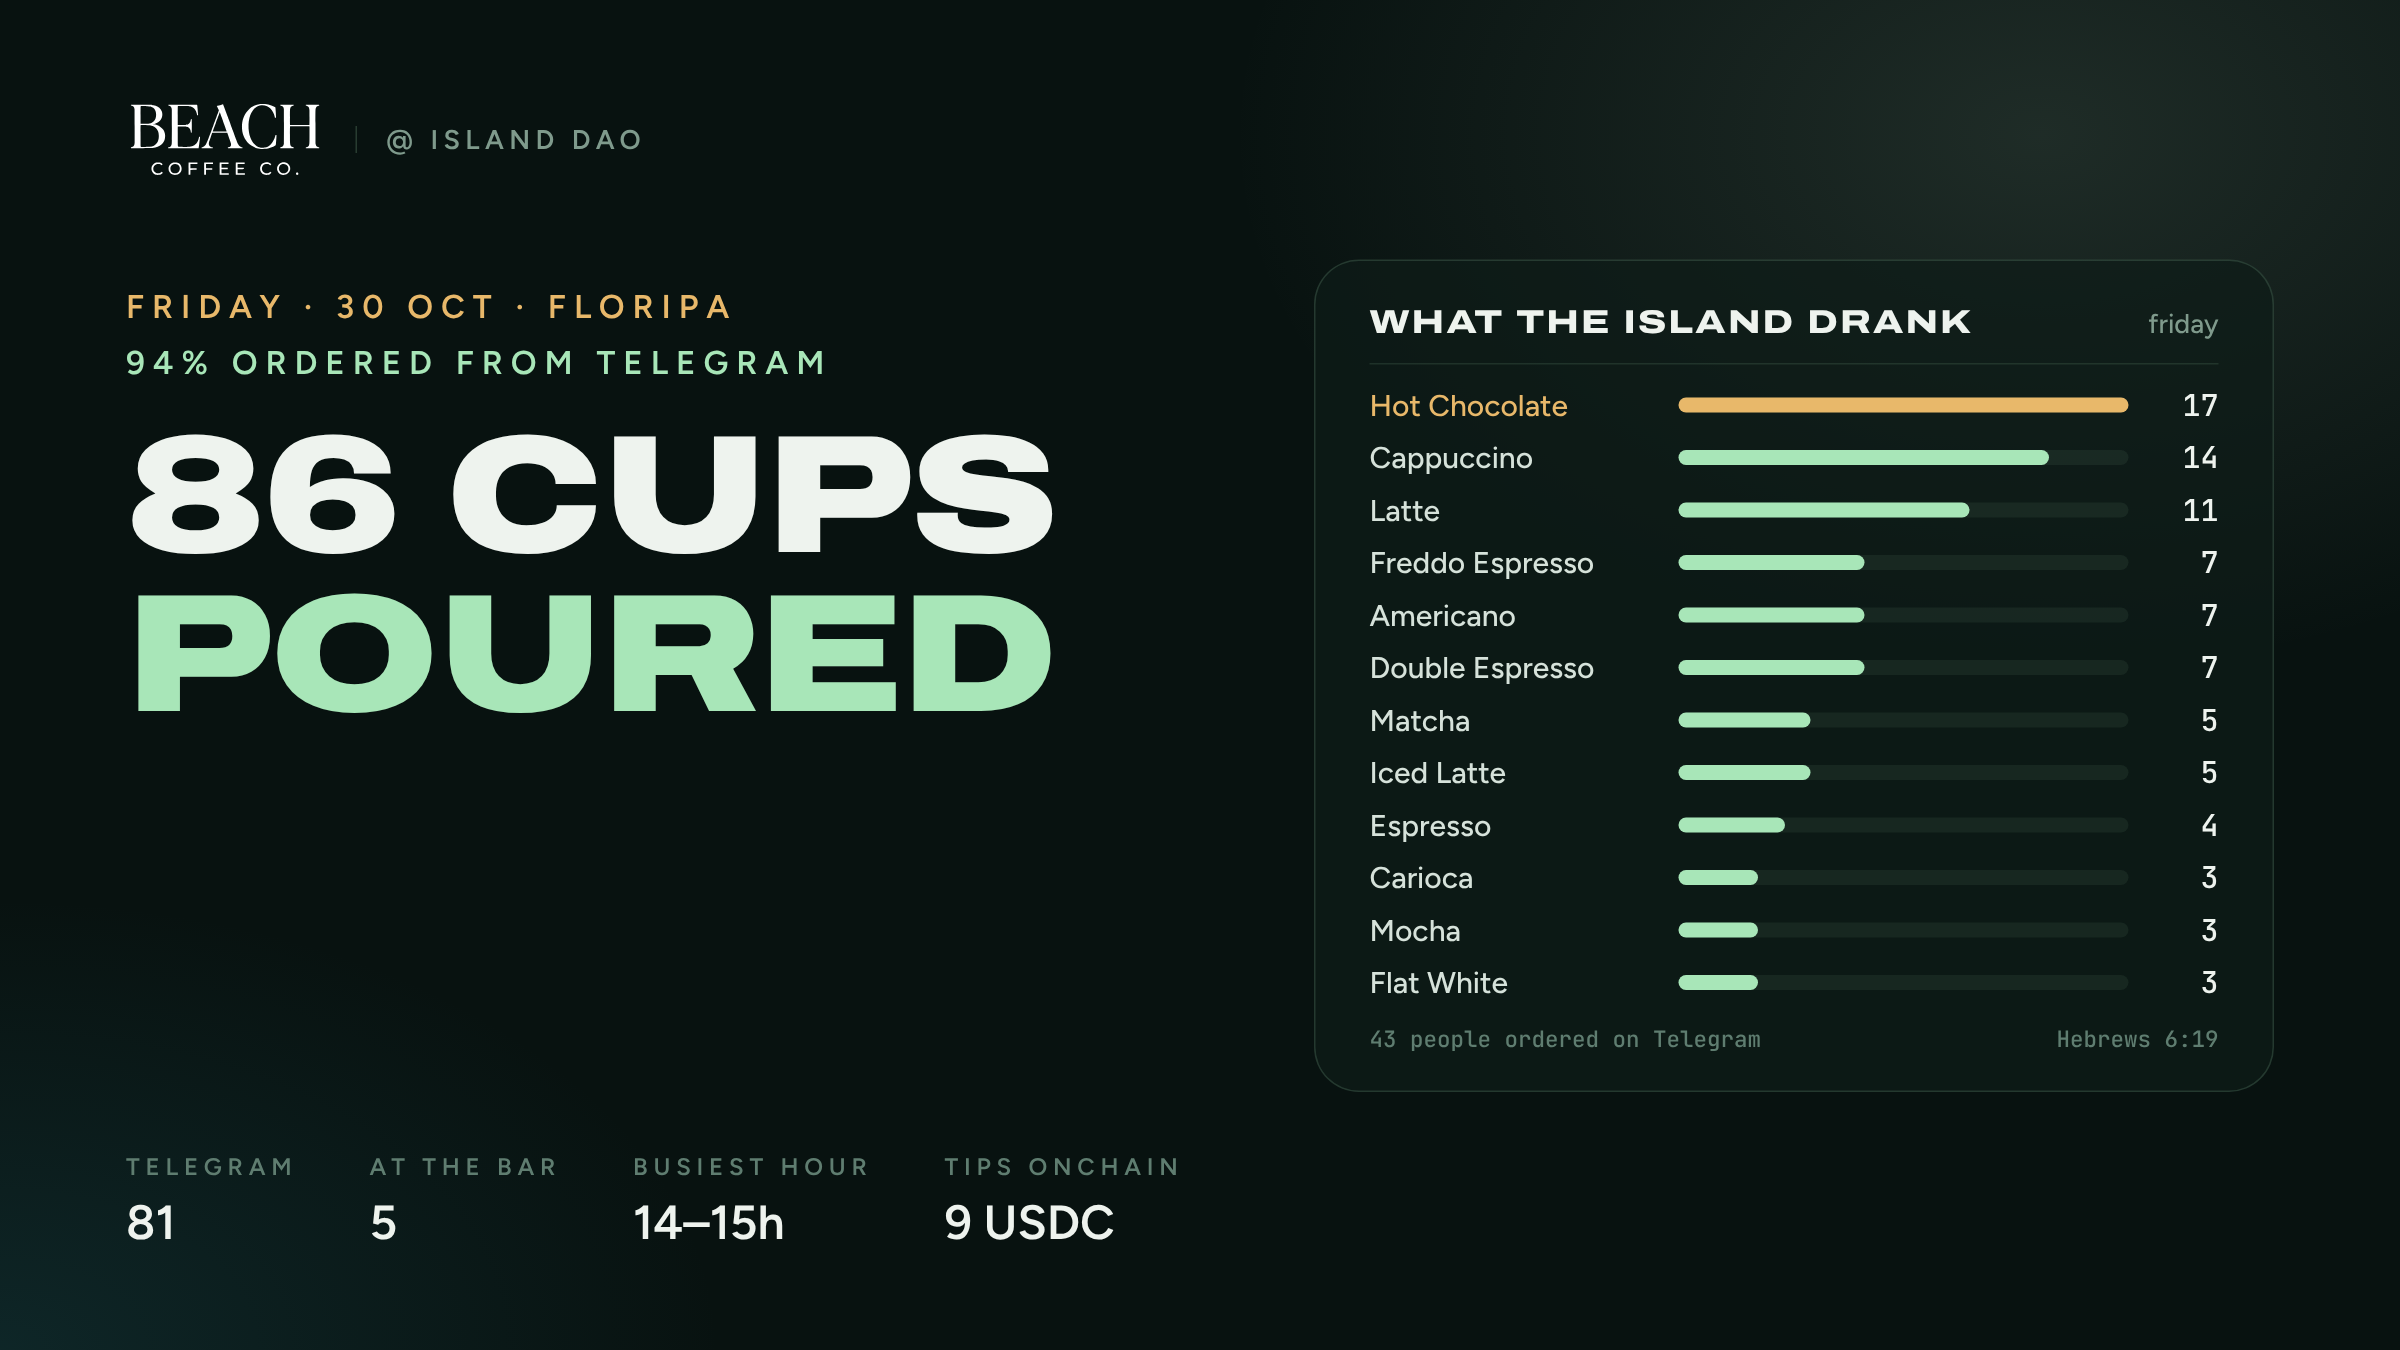
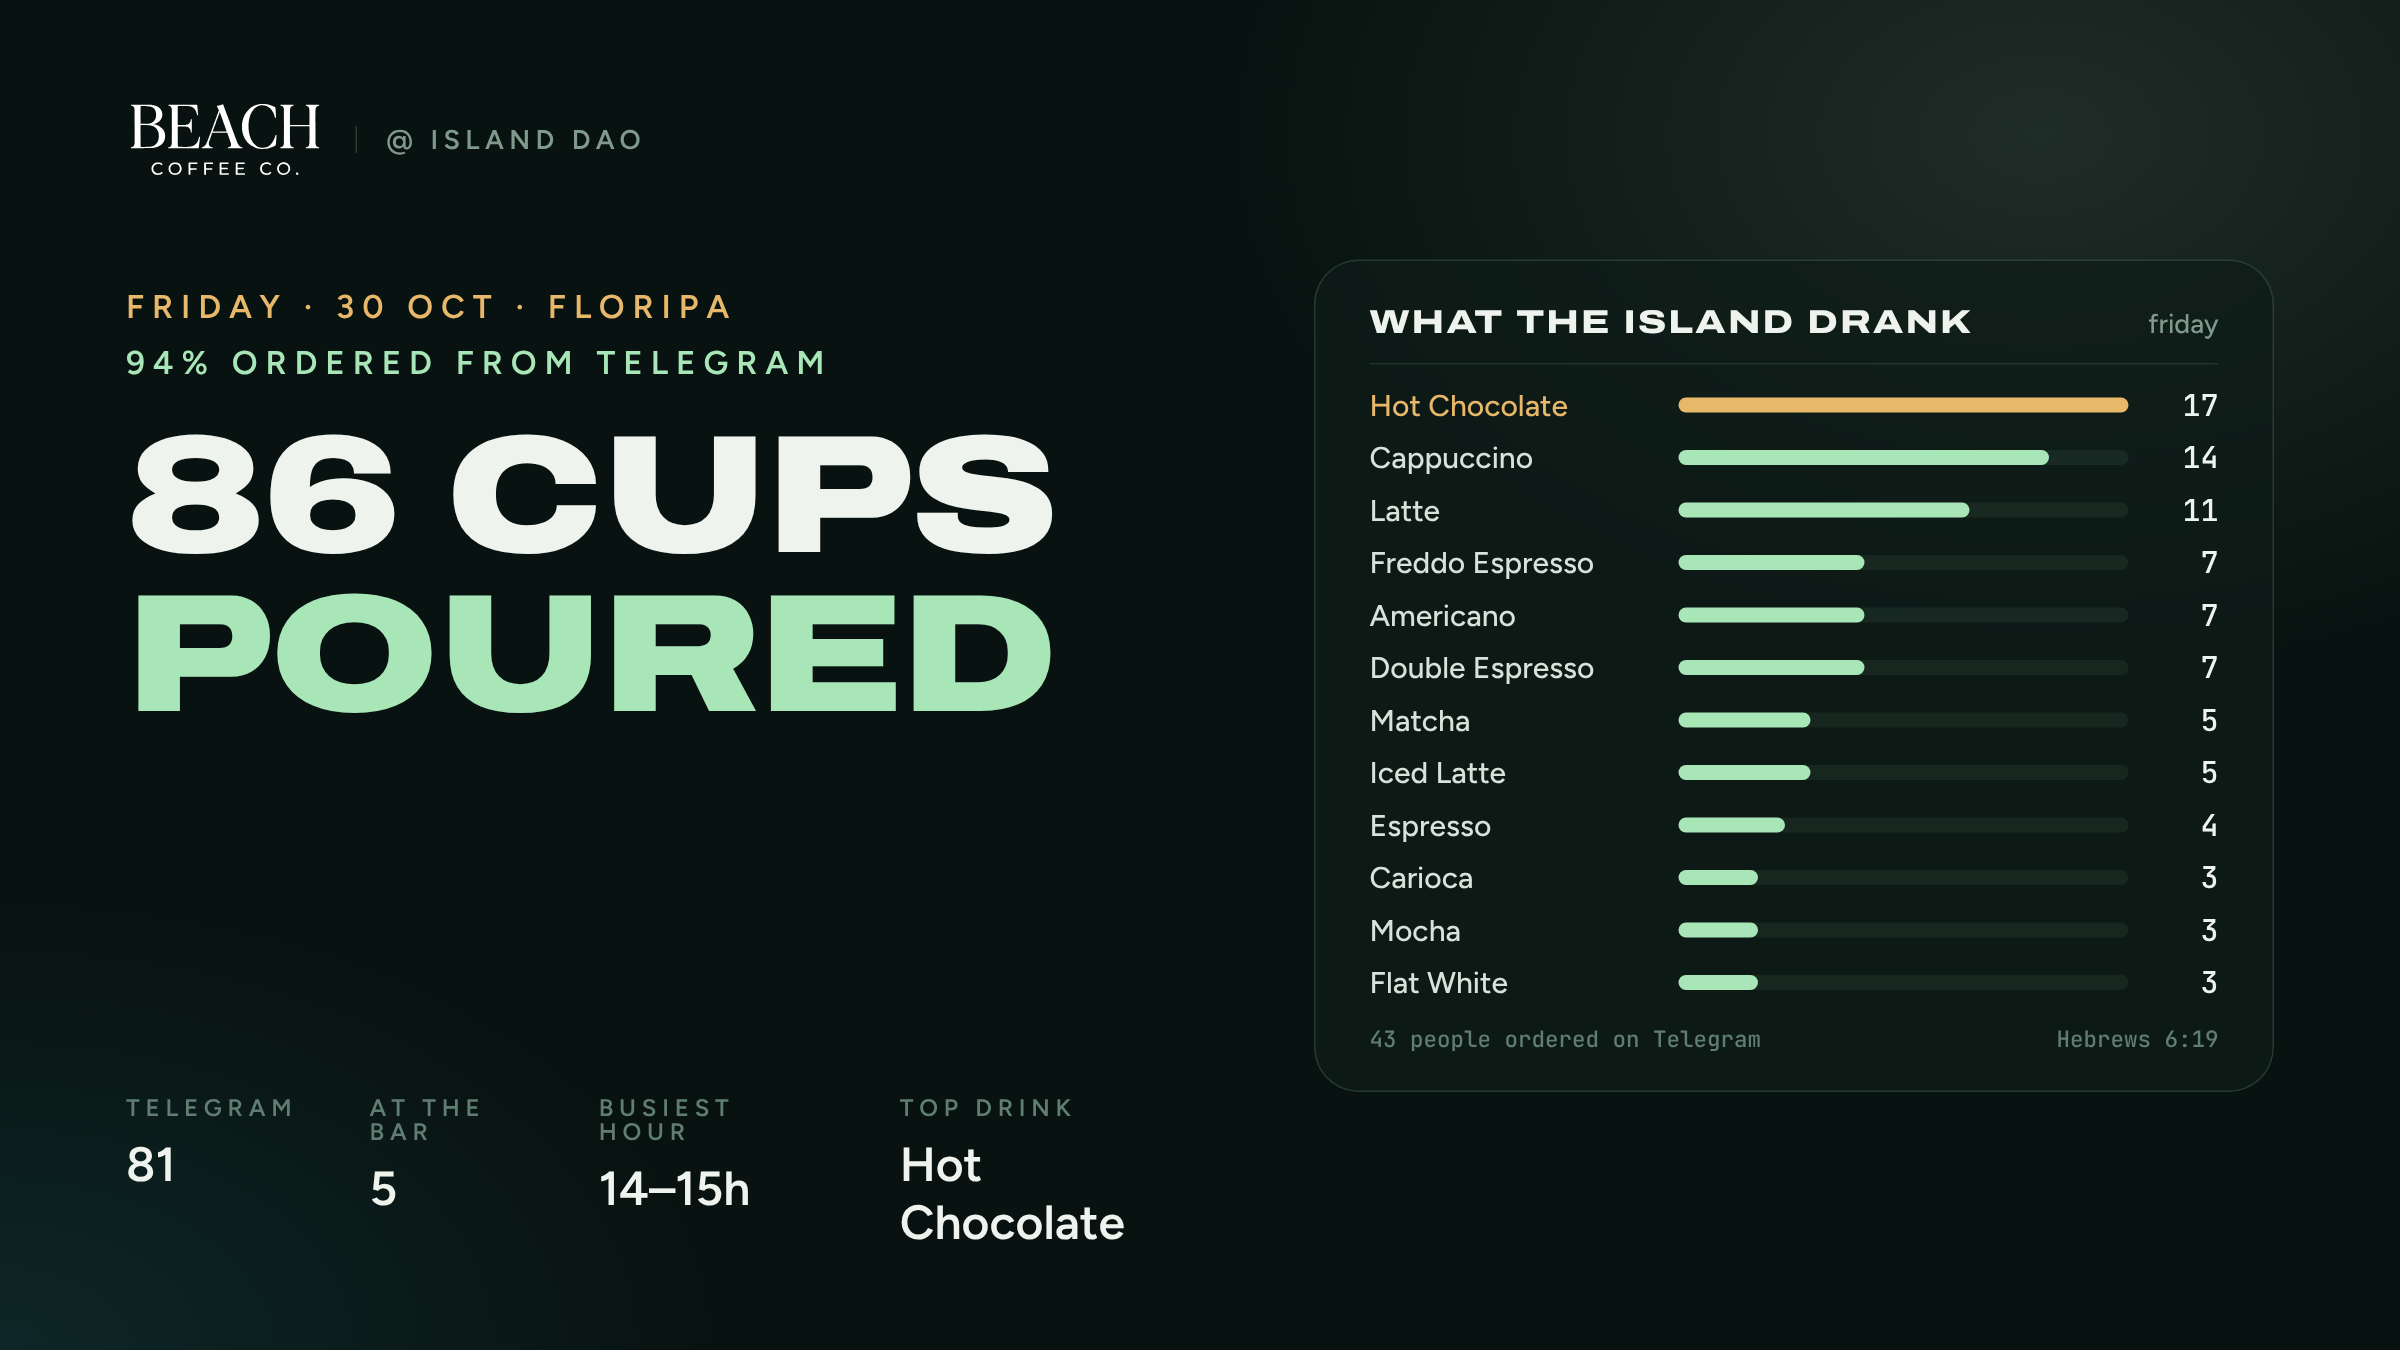
Social: Friday recap without tips
Claude-Session: https://claude.ai/code/session_018p9RnFmrGLAqtr3FTCy91F

diff --git a/design/social/day-30-oct.html b/design/social/day-30-oct.html
@@ -38,7 +38,7 @@ h1 b{display:block;color:#a8e6b8}
     <div><div class="k">TELEGRAM</div><div class="val">81</div></div>
     <div><div class="k">AT THE BAR</div><div class="val">5</div></div>
     <div><div class="k">BUSIEST HOUR</div><div class="val">14–15h</div></div>
-    <div><div class="k">TIPS ONCHAIN</div><div class="val">9 USDC</div></div>
+    <div><div class="k">TOP DRINK</div><div class="val">Hot Chocolate</div></div>
   </div>
 </div>
 <div class="card">

diff --git a/design/social/posts.md b/design/social/posts.md
@@ -65,7 +65,7 @@ Friday at the bar: 86 cups poured.
 81 of them ordered from Telegram, 94% of the day ☕
 
 Hot Chocolate took the crown 🍫
-43 builders ordered from their seat, and 3 tips landed onchain in USDC 💛
+43 builders ordered from their seat, no line, no shouting names 🙌
 
 t.me/BeachCoffeeIslandBot
 ```
@@ -75,7 +75,7 @@ Quote do perfil pessoal, repostando o post acima:
 ```
 A week ago this bar ran on shouting names.
 
-Yesterday 94% of the orders came through a Telegram bot I vibecoded between shifts, and tips settled on Solana.
+Yesterday 94% of the orders came through a Telegram bot I vibecoded between shifts.
 
 Proof of brew: on the island, anyone can build ☕🏝
 ```
